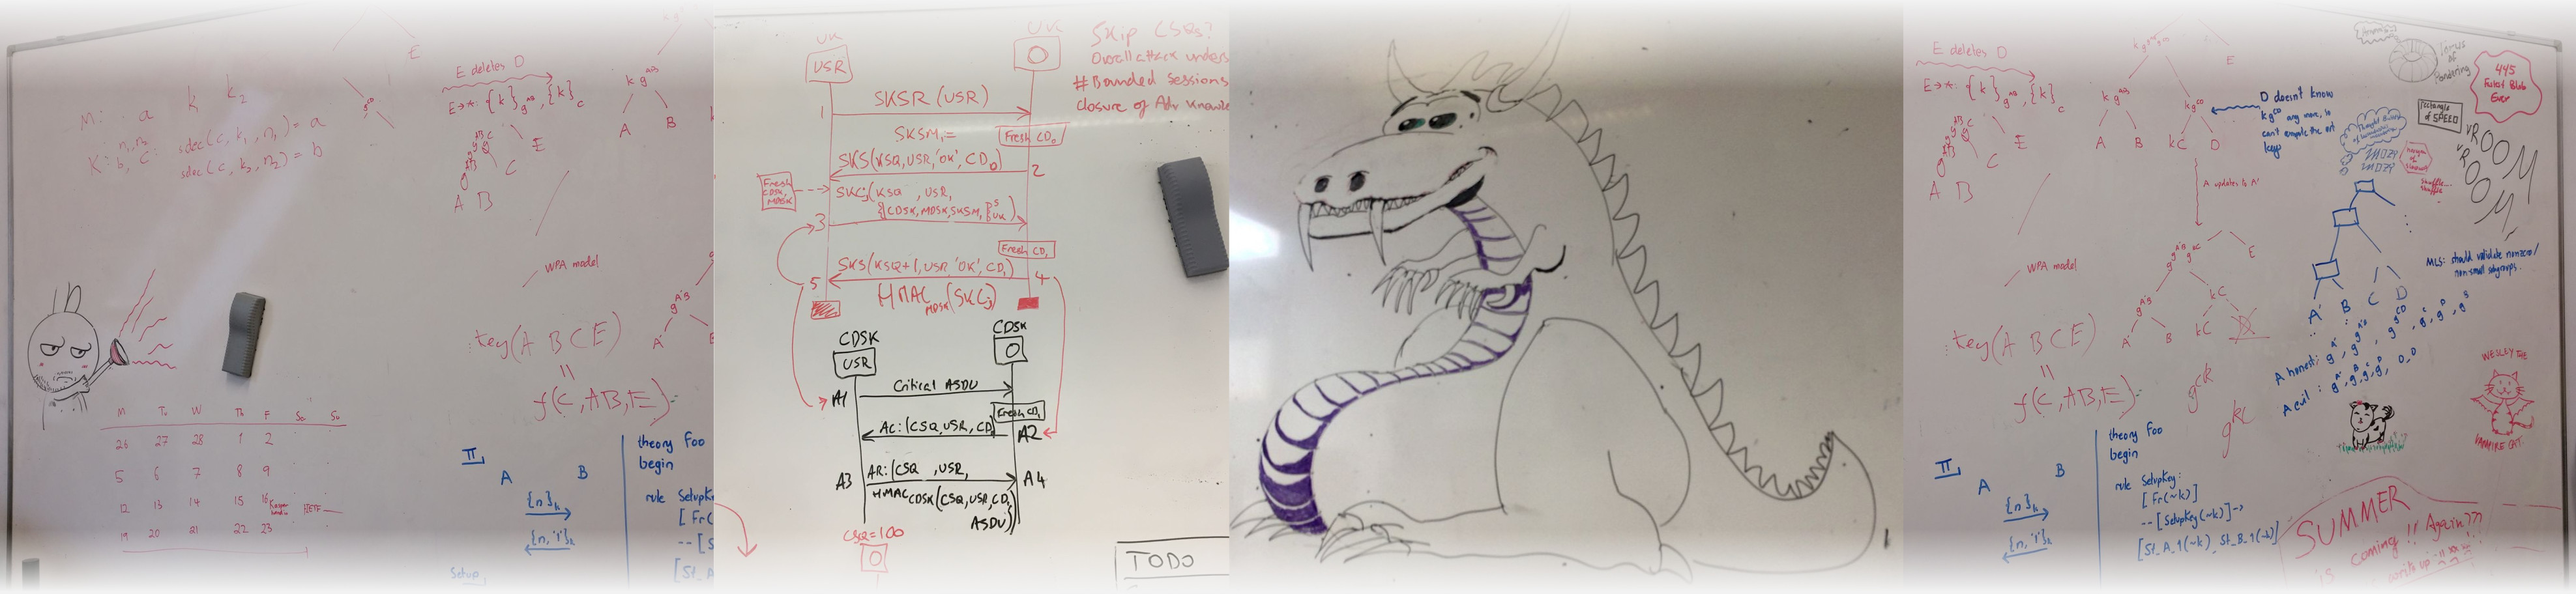
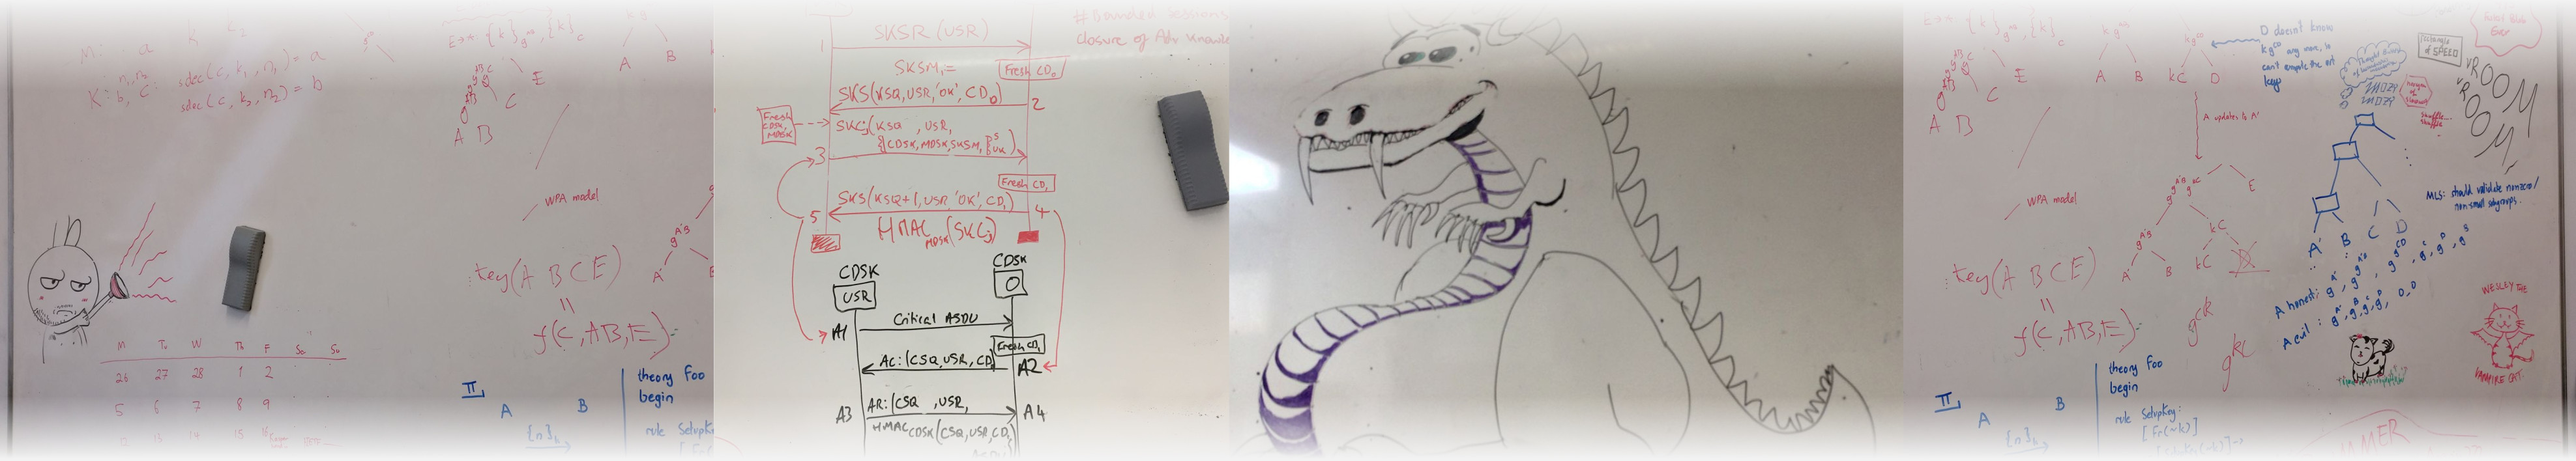
Updating pictures.

diff --git a/open-positions.md b/open-positions.md
@@ -28,6 +28,8 @@ For some examples of our work, see:
 
 We are looking for excellent students and PhDs. We are particularly interested in attracting a broad range of candidates, and are committed to diversity and inclusion. We also enjoy our work, and feel that the working place should be enjoyable for everyone, and allow for flexible working hours&mdash;ask our alumni and current students for references.
 
+<span class="imageline"><img src="assets/images/whiteboards.jpg"></span>
+
 The research group is situated in Saarbrücken, Germany within the [CISPA-Helmholtz center](https://cispa.saarland/). Positions are paid well, according to the relevant German pay scales, and include full benefits.
 
 ## Requirements
